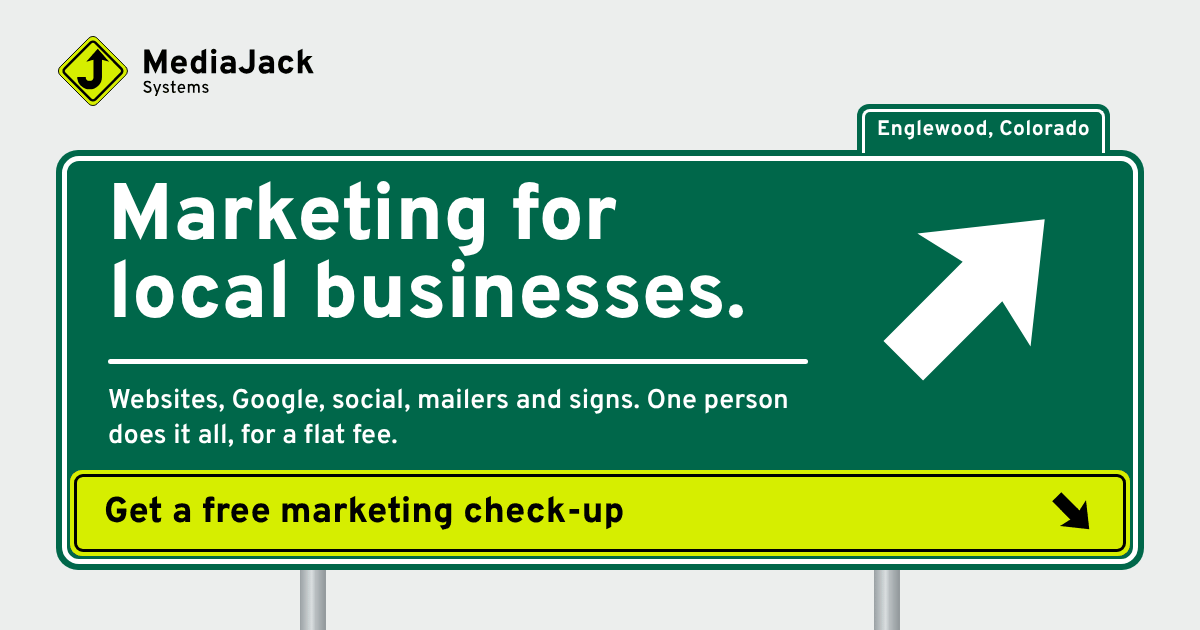
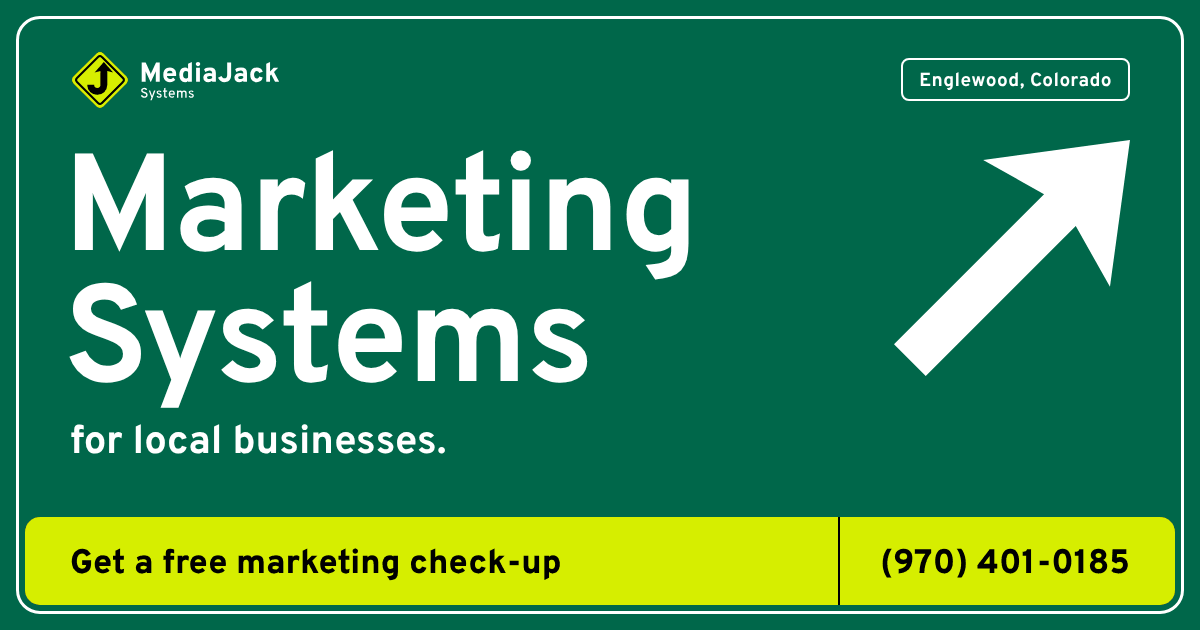
Share image in the new look, heading breaks, the accessibility note
- The share image is the unboxed sign: Marketing, Systems, for local businesses
- Headings in two-column layouts size to their column, and paragraphs no longer
  leave one word hanging
- The accessibility page says how the sign maker works for screen readers

Claude-Session: https://claude.ai/code/session_01Lr69gRQQDSWsC9TACTSFDD

diff --git a/public/services/index.html b/public/services/index.html
@@ -22,8 +22,8 @@
 <link rel="icon" href="/favicon.ico" sizes="32x32">
 <link rel="apple-touch-icon" href="/apple-touch-icon.png">
 <link rel="preload" href="/assets/fonts/overpass-var.woff2" as="font" type="font/woff2" crossorigin>
-<link rel="stylesheet" href="/assets/site.css?v=25d5dbbc">
-<script src="/assets/site.js?v=25d5dbbc" defer></script>
+<link rel="stylesheet" href="/assets/site.css?v=fe84f39a">
+<script src="/assets/site.js?v=fe84f39a" defer></script>
 <script type="application/ld+json">{"@context":"https://schema.org","@graph":[{"@type":"ProfessionalService","@id":"https://mediajacksystems.com/#business","name":"MediaJack Systems","legalName":"MediaJack Systems LLC","url":"https://mediajacksystems.com/","logo":"https://mediajacksystems.com/apple-touch-icon.png","image":"https://mediajacksystems.com/assets/img/og-image.png","description":"Marketing and custom systems for local businesses: websites, Google and AI search, branding, social media, email, ads, print and direct mail, fractional CMO work, and custom-built software. Flat fees, quoted in writing before work starts.","telephone":"+1-970-401-0185","email":"jack@mediajacksystems.com","priceRange":"$295 to $1,500","address":{"@type":"PostalAddress","addressLocality":"Englewood","addressRegion":"CO","postalCode":"80111","addressCountry":"US"},"areaServed":[{"@type":"City","name":"Englewood, Colorado"},{"@type":"City","name":"Denver, Colorado"},{"@type":"Country","name":"United States"}],"founder":{"@id":"https://mediajacksystems.com/about/#jack"},"knowsAbout":["Local SEO","Google Business Profile","AI search visibility","Website design","Branding","Social media marketing","Email marketing","Google Ads","Facebook and Instagram ads","Direct mail","Every Door Direct Mail","Print marketing","Fractional CMO","Custom software"],"sameAs":["https://www.google.com/maps?cid=17107192777668945042"],"hasMap":"https://www.google.com/maps?cid=17107192777668945042","hasOfferCatalog":{"@type":"OfferCatalog","name":"Marketing services and custom systems","itemListElement":[{"@type":"Offer","itemOffered":{"@type":"Service","name":"Google and local search","description":"Google Business Profile, local search, AI search visibility, Google and Facebook/Instagram ads, and review routines.","url":"https://mediajacksystems.com/services/#get-found","provider":{"@id":"https://mediajacksystems.com/#business"}}},{"@type":"Offer","itemOffered":{"@type":"Service","name":"Websites and branding","description":"Logos and brand guides, websites and website fixes, landing pages, and photo and video.","url":"https://mediajacksystems.com/services/#look-the-part","provider":{"@id":"https://mediajacksystems.com/#business"}}},{"@type":"Offer","itemOffered":{"@type":"Service","name":"Social media and email","description":"Social media management, email newsletters and campaigns, follow-ups and content.","url":"https://mediajacksystems.com/services/#stay-in-touch","provider":{"@id":"https://mediajacksystems.com/#business"}}},{"@type":"Offer","itemOffered":{"@type":"Service","name":"Print and direct mail","description":"Business cards, postcards and direct mail including Every Door Direct Mail, flyers, brochures, signs, banners, vehicle graphics and trade show displays.","url":"https://mediajacksystems.com/services/#print","provider":{"@id":"https://mediajacksystems.com/#business"}}},{"@type":"Offer","itemOffered":{"@type":"Service","name":"Part-time marketing lead","description":"Fractional CMO: marketing plan, budget and calendar, vendor management, sales materials and plain-English reporting.","url":"https://mediajacksystems.com/services/#run-it","provider":{"@id":"https://mediajacksystems.com/#business"}}},{"@type":"Offer","itemOffered":{"@type":"Service","name":"Custom systems","description":"Software built around how a business works: tools on a website such as calculators, checkers and maps, lead capture and follow-up systems, and company platforms built from the ground up. Quoted for the job.","url":"https://mediajacksystems.com/services/#custom-systems","provider":{"@id":"https://mediajacksystems.com/#business"}}},{"@type":"Offer","itemOffered":{"@type":"Service","name":"Website for a small business, with a gallery of your work","provider":{"@id":"https://mediajacksystems.com/#business"}},"priceCurrency":"USD","price":500},{"@type":"Offer","itemOffered":{"@type":"Service","name":"Hosting and small updates for a small business website","provider":{"@id":"https://mediajacksystems.com/#business"}},"priceCurrency":"USD","price":50,"priceSpecification":{"@type":"UnitPriceSpecification","price":50,"priceCurrency":"USD","unitCode":"MON"}},{"@type":"Offer","itemOffered":{"@type":"Service","name":"Website for a bigger operation","provider":{"@id":"https://mediajacksystems.com/#business"}},"priceCurrency":"USD","price":1500},{"@type":"Offer","itemOffered":{"@type":"Service","name":"Hosting and updates for a bigger operation","provider":{"@id":"https://mediajacksystems.com/#business"}},"priceCurrency":"USD","price":150,"priceSpecification":{"@type":"UnitPriceSpecification","price":150,"priceCurrency":"USD","unitCode":"MON"}},{"@type":"Offer","itemOffered":{"@type":"Service","name":"Fixing the problems on a website you already have","provider":{"@id":"https://mediajacksystems.com/#business"}},"priceCurrency":"USD","price":295},{"@type":"Offer","itemOffered":{"@type":"Service","name":"One social platform set up with 4 posts, small business","provider":{"@id":"https://mediajacksystems.com/#business"}},"priceCurrency":"USD","price":150},{"@type":"Offer","itemOffered":{"@type":"Service","name":"12 social posts a month, small business","provider":{"@id":"https://mediajacksystems.com/#business"}},"priceCurrency":"USD","price":100,"priceSpecification":{"@type":"UnitPriceSpecification","price":100,"priceCurrency":"USD","unitCode":"MON"}}]}},{"@type":"Person","@id":"https://mediajacksystems.com/about/#jack","name":"Jack Johnson","jobTitle":"Owner","worksFor":{"@id":"https://mediajacksystems.com/#business"},"url":"https://mediajacksystems.com/about/","email":"jack@mediajacksystems.com","telephone":"+1-970-401-0185","sameAs":["https://www.linkedin.com/in/jack-johnson-359494400"],"image":"https://mediajacksystems.com/assets/img/jack-johnson-880.jpg"},{"@type":"BreadcrumbList","itemListElement":[{"@type":"ListItem","position":1,"name":"Home","item":"https://mediajacksystems.com/"},{"@type":"ListItem","position":2,"name":"Services","item":"https://mediajacksystems.com/services/"}]}]}</script>
 </head>
 <body>

diff --git a/public/websites/index.html b/public/websites/index.html
@@ -22,8 +22,8 @@
 <link rel="icon" href="/favicon.ico" sizes="32x32">
 <link rel="apple-touch-icon" href="/apple-touch-icon.png">
 <link rel="preload" href="/assets/fonts/overpass-var.woff2" as="font" type="font/woff2" crossorigin>
-<link rel="stylesheet" href="/assets/site.css?v=25d5dbbc">
-<script src="/assets/site.js?v=25d5dbbc" defer></script>
+<link rel="stylesheet" href="/assets/site.css?v=fe84f39a">
+<script src="/assets/site.js?v=fe84f39a" defer></script>
 <script type="application/ld+json">{"@context":"https://schema.org","@graph":[{"@type":"Service","@id":"https://mediajacksystems.com/websites/#service","name":"Websites for local businesses","serviceType":"Website design","url":"https://mediajacksystems.com/websites/","description":"A website for a contractor, salon, restaurant or shop: your services, a gallery of your real work and a call button on every page. $500 flat, $50 a month.","provider":{"@id":"https://mediajacksystems.com/#business"},"areaServed":[{"@type":"City","name":"Englewood, Colorado"},{"@type":"City","name":"Denver, Colorado"},{"@type":"Country","name":"United States"}],"offers":[{"@type":"Offer","itemOffered":{"@type":"Service","name":"Website for a small business, with a gallery of your work","provider":{"@id":"https://mediajacksystems.com/#business"}},"priceCurrency":"USD","price":500},{"@type":"Offer","itemOffered":{"@type":"Service","name":"Hosting and small updates for a small business website","provider":{"@id":"https://mediajacksystems.com/#business"}},"priceCurrency":"USD","price":50,"priceSpecification":{"@type":"UnitPriceSpecification","price":50,"priceCurrency":"USD","unitCode":"MON"}},{"@type":"Offer","itemOffered":{"@type":"Service","name":"Website for a bigger operation","provider":{"@id":"https://mediajacksystems.com/#business"}},"priceCurrency":"USD","price":1500},{"@type":"Offer","itemOffered":{"@type":"Service","name":"Hosting and updates for a bigger operation","provider":{"@id":"https://mediajacksystems.com/#business"}},"priceCurrency":"USD","price":150,"priceSpecification":{"@type":"UnitPriceSpecification","price":150,"priceCurrency":"USD","unitCode":"MON"}},{"@type":"Offer","itemOffered":{"@type":"Service","name":"Fixing the problems on a website you already have","provider":{"@id":"https://mediajacksystems.com/#business"}},"priceCurrency":"USD","price":295}]},{"@type":"ProfessionalService","@id":"https://mediajacksystems.com/#business","name":"MediaJack Systems","legalName":"MediaJack Systems LLC","url":"https://mediajacksystems.com/","logo":"https://mediajacksystems.com/apple-touch-icon.png","image":"https://mediajacksystems.com/assets/img/og-image.png","description":"Marketing and custom systems for local businesses: websites, Google and AI search, branding, social media, email, ads, print and direct mail, fractional CMO work, and custom-built software. Flat fees, quoted in writing before work starts.","telephone":"+1-970-401-0185","email":"jack@mediajacksystems.com","priceRange":"$295 to $1,500","address":{"@type":"PostalAddress","addressLocality":"Englewood","addressRegion":"CO","postalCode":"80111","addressCountry":"US"},"areaServed":[{"@type":"City","name":"Englewood, Colorado"},{"@type":"City","name":"Denver, Colorado"},{"@type":"Country","name":"United States"}],"founder":{"@id":"https://mediajacksystems.com/about/#jack"},"knowsAbout":["Local SEO","Google Business Profile","AI search visibility","Website design","Branding","Social media marketing","Email marketing","Google Ads","Facebook and Instagram ads","Direct mail","Every Door Direct Mail","Print marketing","Fractional CMO","Custom software"],"sameAs":["https://www.google.com/maps?cid=17107192777668945042"],"hasMap":"https://www.google.com/maps?cid=17107192777668945042"},{"@type":"Person","@id":"https://mediajacksystems.com/about/#jack","name":"Jack Johnson","jobTitle":"Owner","worksFor":{"@id":"https://mediajacksystems.com/#business"},"url":"https://mediajacksystems.com/about/","email":"jack@mediajacksystems.com","telephone":"+1-970-401-0185","sameAs":["https://www.linkedin.com/in/jack-johnson-359494400"],"image":"https://mediajacksystems.com/assets/img/jack-johnson-880.jpg"},{"@type":"BreadcrumbList","itemListElement":[{"@type":"ListItem","position":1,"name":"Home","item":"https://mediajacksystems.com/"},{"@type":"ListItem","position":2,"name":"Websites","item":"https://mediajacksystems.com/websites/"}]}]}</script>
 </head>
 <body>

diff --git a/public/index.html b/public/index.html
@@ -22,8 +22,8 @@
 <link rel="icon" href="/favicon.ico" sizes="32x32">
 <link rel="apple-touch-icon" href="/apple-touch-icon.png">
 <link rel="preload" href="/assets/fonts/overpass-var.woff2" as="font" type="font/woff2" crossorigin>
-<link rel="stylesheet" href="/assets/site.css?v=25d5dbbc">
-<script src="/assets/site.js?v=25d5dbbc" defer></script>
+<link rel="stylesheet" href="/assets/site.css?v=fe84f39a">
+<script src="/assets/site.js?v=fe84f39a" defer></script>
 <script type="application/ld+json">{"@context":"https://schema.org","@graph":[{"@type":"WebSite","@id":"https://mediajacksystems.com/#site","name":"MediaJack Systems","url":"https://mediajacksystems.com/","publisher":{"@id":"https://mediajacksystems.com/#business"}},{"@type":"ProfessionalService","@id":"https://mediajacksystems.com/#business","name":"MediaJack Systems","legalName":"MediaJack Systems LLC","url":"https://mediajacksystems.com/","logo":"https://mediajacksystems.com/apple-touch-icon.png","image":"https://mediajacksystems.com/assets/img/og-image.png","description":"Marketing and custom systems for local businesses: websites, Google and AI search, branding, social media, email, ads, print and direct mail, fractional CMO work, and custom-built software. Flat fees, quoted in writing before work starts.","telephone":"+1-970-401-0185","email":"jack@mediajacksystems.com","priceRange":"$295 to $1,500","address":{"@type":"PostalAddress","addressLocality":"Englewood","addressRegion":"CO","postalCode":"80111","addressCountry":"US"},"areaServed":[{"@type":"City","name":"Englewood, Colorado"},{"@type":"City","name":"Denver, Colorado"},{"@type":"Country","name":"United States"}],"founder":{"@id":"https://mediajacksystems.com/about/#jack"},"knowsAbout":["Local SEO","Google Business Profile","AI search visibility","Website design","Branding","Social media marketing","Email marketing","Google Ads","Facebook and Instagram ads","Direct mail","Every Door Direct Mail","Print marketing","Fractional CMO","Custom software"],"sameAs":["https://www.google.com/maps?cid=17107192777668945042"],"hasMap":"https://www.google.com/maps?cid=17107192777668945042","hasOfferCatalog":{"@type":"OfferCatalog","name":"Starting prices","itemListElement":[{"@type":"Offer","itemOffered":{"@type":"Service","name":"Website for a small business, with a gallery of your work","provider":{"@id":"https://mediajacksystems.com/#business"}},"priceCurrency":"USD","price":500},{"@type":"Offer","itemOffered":{"@type":"Service","name":"Hosting and small updates for a small business website","provider":{"@id":"https://mediajacksystems.com/#business"}},"priceCurrency":"USD","price":50,"priceSpecification":{"@type":"UnitPriceSpecification","price":50,"priceCurrency":"USD","unitCode":"MON"}},{"@type":"Offer","itemOffered":{"@type":"Service","name":"Website for a bigger operation","provider":{"@id":"https://mediajacksystems.com/#business"}},"priceCurrency":"USD","price":1500},{"@type":"Offer","itemOffered":{"@type":"Service","name":"Hosting and updates for a bigger operation","provider":{"@id":"https://mediajacksystems.com/#business"}},"priceCurrency":"USD","price":150,"priceSpecification":{"@type":"UnitPriceSpecification","price":150,"priceCurrency":"USD","unitCode":"MON"}},{"@type":"Offer","itemOffered":{"@type":"Service","name":"Fixing the problems on a website you already have","provider":{"@id":"https://mediajacksystems.com/#business"}},"priceCurrency":"USD","price":295},{"@type":"Offer","itemOffered":{"@type":"Service","name":"One social platform set up with 4 posts, small business","provider":{"@id":"https://mediajacksystems.com/#business"}},"priceCurrency":"USD","price":150},{"@type":"Offer","itemOffered":{"@type":"Service","name":"12 social posts a month, small business","provider":{"@id":"https://mediajacksystems.com/#business"}},"priceCurrency":"USD","price":100,"priceSpecification":{"@type":"UnitPriceSpecification","price":100,"priceCurrency":"USD","unitCode":"MON"}}]}},{"@type":"Person","@id":"https://mediajacksystems.com/about/#jack","name":"Jack Johnson","jobTitle":"Owner","worksFor":{"@id":"https://mediajacksystems.com/#business"},"url":"https://mediajacksystems.com/about/","email":"jack@mediajacksystems.com","telephone":"+1-970-401-0185","sameAs":["https://www.linkedin.com/in/jack-johnson-359494400"],"image":"https://mediajacksystems.com/assets/img/jack-johnson-880.jpg"}]}</script>
 </head>
 <body>

diff --git a/public/check-up/index.html b/public/check-up/index.html
@@ -22,8 +22,8 @@
 <link rel="icon" href="/favicon.ico" sizes="32x32">
 <link rel="apple-touch-icon" href="/apple-touch-icon.png">
 <link rel="preload" href="/assets/fonts/overpass-var.woff2" as="font" type="font/woff2" crossorigin>
-<link rel="stylesheet" href="/assets/site.css?v=25d5dbbc">
-<script src="/assets/site.js?v=25d5dbbc" defer></script>
+<link rel="stylesheet" href="/assets/site.css?v=fe84f39a">
+<script src="/assets/site.js?v=fe84f39a" defer></script>
 <script type="application/ld+json">{"@context":"https://schema.org","@graph":[{"@type":"WebPage","url":"https://mediajacksystems.com/check-up/","name":"Free marketing check-up | MediaJack Systems","description":"Send your website or business name. Jack Johnson looks at what your customers see and emails back a short list of what to fix first. Free, no obligation.","about":{"@id":"https://mediajacksystems.com/#business"}},{"@type":"ProfessionalService","@id":"https://mediajacksystems.com/#business","name":"MediaJack Systems","legalName":"MediaJack Systems LLC","url":"https://mediajacksystems.com/","logo":"https://mediajacksystems.com/apple-touch-icon.png","image":"https://mediajacksystems.com/assets/img/og-image.png","description":"Marketing and custom systems for local businesses: websites, Google and AI search, branding, social media, email, ads, print and direct mail, fractional CMO work, and custom-built software. Flat fees, quoted in writing before work starts.","telephone":"+1-970-401-0185","email":"jack@mediajacksystems.com","priceRange":"$295 to $1,500","address":{"@type":"PostalAddress","addressLocality":"Englewood","addressRegion":"CO","postalCode":"80111","addressCountry":"US"},"areaServed":[{"@type":"City","name":"Englewood, Colorado"},{"@type":"City","name":"Denver, Colorado"},{"@type":"Country","name":"United States"}],"founder":{"@id":"https://mediajacksystems.com/about/#jack"},"knowsAbout":["Local SEO","Google Business Profile","AI search visibility","Website design","Branding","Social media marketing","Email marketing","Google Ads","Facebook and Instagram ads","Direct mail","Every Door Direct Mail","Print marketing","Fractional CMO","Custom software"],"sameAs":["https://www.google.com/maps?cid=17107192777668945042"],"hasMap":"https://www.google.com/maps?cid=17107192777668945042"},{"@type":"Person","@id":"https://mediajacksystems.com/about/#jack","name":"Jack Johnson","jobTitle":"Owner","worksFor":{"@id":"https://mediajacksystems.com/#business"},"url":"https://mediajacksystems.com/about/","email":"jack@mediajacksystems.com","telephone":"+1-970-401-0185","sameAs":["https://www.linkedin.com/in/jack-johnson-359494400"],"image":"https://mediajacksystems.com/assets/img/jack-johnson-880.jpg"},{"@type":"BreadcrumbList","itemListElement":[{"@type":"ListItem","position":1,"name":"Home","item":"https://mediajacksystems.com/"},{"@type":"ListItem","position":2,"name":"Free check-up","item":"https://mediajacksystems.com/check-up/"}]}]}</script>
 </head>
 <body>

diff --git a/public/contact/index.html b/public/contact/index.html
@@ -22,8 +22,8 @@
 <link rel="icon" href="/favicon.ico" sizes="32x32">
 <link rel="apple-touch-icon" href="/apple-touch-icon.png">
 <link rel="preload" href="/assets/fonts/overpass-var.woff2" as="font" type="font/woff2" crossorigin>
-<link rel="stylesheet" href="/assets/site.css?v=25d5dbbc">
-<script src="/assets/site.js?v=25d5dbbc" defer></script>
+<link rel="stylesheet" href="/assets/site.css?v=fe84f39a">
+<script src="/assets/site.js?v=fe84f39a" defer></script>
 <script type="application/ld+json">{"@context":"https://schema.org","@graph":[{"@type":"ContactPage","url":"https://mediajacksystems.com/contact/","about":{"@id":"https://mediajacksystems.com/#business"}},{"@type":"ProfessionalService","@id":"https://mediajacksystems.com/#business","name":"MediaJack Systems","legalName":"MediaJack Systems LLC","url":"https://mediajacksystems.com/","logo":"https://mediajacksystems.com/apple-touch-icon.png","image":"https://mediajacksystems.com/assets/img/og-image.png","description":"Marketing and custom systems for local businesses: websites, Google and AI search, branding, social media, email, ads, print and direct mail, fractional CMO work, and custom-built software. Flat fees, quoted in writing before work starts.","telephone":"+1-970-401-0185","email":"jack@mediajacksystems.com","priceRange":"$295 to $1,500","address":{"@type":"PostalAddress","addressLocality":"Englewood","addressRegion":"CO","postalCode":"80111","addressCountry":"US"},"areaServed":[{"@type":"City","name":"Englewood, Colorado"},{"@type":"City","name":"Denver, Colorado"},{"@type":"Country","name":"United States"}],"founder":{"@id":"https://mediajacksystems.com/about/#jack"},"knowsAbout":["Local SEO","Google Business Profile","AI search visibility","Website design","Branding","Social media marketing","Email marketing","Google Ads","Facebook and Instagram ads","Direct mail","Every Door Direct Mail","Print marketing","Fractional CMO","Custom software"],"sameAs":["https://www.google.com/maps?cid=17107192777668945042"],"hasMap":"https://www.google.com/maps?cid=17107192777668945042"},{"@type":"Person","@id":"https://mediajacksystems.com/about/#jack","name":"Jack Johnson","jobTitle":"Owner","worksFor":{"@id":"https://mediajacksystems.com/#business"},"url":"https://mediajacksystems.com/about/","email":"jack@mediajacksystems.com","telephone":"+1-970-401-0185","sameAs":["https://www.linkedin.com/in/jack-johnson-359494400"],"image":"https://mediajacksystems.com/assets/img/jack-johnson-880.jpg"},{"@type":"BreadcrumbList","itemListElement":[{"@type":"ListItem","position":1,"name":"Home","item":"https://mediajacksystems.com/"},{"@type":"ListItem","position":2,"name":"Contact","item":"https://mediajacksystems.com/contact/"}]}]}</script>
 </head>
 <body>

diff --git a/public/assets/site.css b/public/assets/site.css
@@ -58,6 +58,7 @@ body {
 img, svg { display: block; max-width: 100%; }
 h1, h2, h3, p, ul, ol, dl, dd, figure, blockquote { margin: 0; }
 p + p { margin-top: 1em; }
+p, li, dd { text-wrap: pretty; }                                 /* no single word left hanging on a last line */
 strong, b { font-weight: 800; }
 
 a { color: inherit; text-decoration-thickness: 2px; text-underline-offset: .18em; }
@@ -316,6 +317,8 @@ a.brand:hover { background: none; }
 @media (min-width: 1100px) {
   .intro { grid-template-columns: repeat(2, minmax(0, 1fr)); gap: 2.5rem clamp(2.5rem, 6vw, 5.5rem); align-items: start; }
   .intro__where { grid-column: 2; grid-row: 1 / span 2; margin-top: .45rem; }
+  .distance { padding: 28px 38px 26px; }
+  .distance li { padding: 27px 0 22px; }
 }
 
 /* ---------------------------------------------------------------- sections */
@@ -339,6 +342,7 @@ h2 + .lede { margin-top: 1rem; }
 @media (min-width: 900px) {
   .split { grid-template-columns: minmax(0, .82fr) minmax(0, 1.18fr); align-items: start; }
   .split--even { grid-template-columns: repeat(2, minmax(0, 1fr)); }
+  .split h2 { font-size: clamp(2.1rem, 5.2vw, 4rem); }
 }
 
 /* ---------------------------------------------------------------- price plates: white regulatory signs */
@@ -492,6 +496,7 @@ a.blade:active { transform: translateY(1px); }
 @media (min-width: 900px) {
   .band__maker { grid-template-columns: minmax(0, .94fr) minmax(0, 1.06fr); grid-template-areas: "say stage" "maker stage" "actions stage" "looks looks"; column-gap: clamp(2.5rem, 5vw, 4.5rem); }
   .band__say { grid-area: say; }
+  .band h2 { font-size: min(4.6rem, 4.55vw); }
   .maker { grid-area: maker; }
   .maker__stage { grid-area: stage; align-self: center; }
   .band__maker > .actions { grid-area: actions; }

diff --git a/public/about/index.html b/public/about/index.html
@@ -22,8 +22,8 @@
 <link rel="icon" href="/favicon.ico" sizes="32x32">
 <link rel="apple-touch-icon" href="/apple-touch-icon.png">
 <link rel="preload" href="/assets/fonts/overpass-var.woff2" as="font" type="font/woff2" crossorigin>
-<link rel="stylesheet" href="/assets/site.css?v=25d5dbbc">
-<script src="/assets/site.js?v=25d5dbbc" defer></script>
+<link rel="stylesheet" href="/assets/site.css?v=fe84f39a">
+<script src="/assets/site.js?v=fe84f39a" defer></script>
 <script type="application/ld+json">{"@context":"https://schema.org","@graph":[{"@type":"Person","@id":"https://mediajacksystems.com/about/#jack","name":"Jack Johnson","jobTitle":"Owner","worksFor":{"@id":"https://mediajacksystems.com/#business"},"url":"https://mediajacksystems.com/about/","email":"jack@mediajacksystems.com","telephone":"+1-970-401-0185","sameAs":["https://www.linkedin.com/in/jack-johnson-359494400"],"image":"https://mediajacksystems.com/assets/img/jack-johnson-880.jpg","description":"Owner of MediaJack Systems, a marketing and custom systems firm in Englewood, Colorado; fractional CMO."},{"@type":"AboutPage","url":"https://mediajacksystems.com/about/","about":{"@id":"https://mediajacksystems.com/about/#jack"}},{"@type":"BreadcrumbList","itemListElement":[{"@type":"ListItem","position":1,"name":"Home","item":"https://mediajacksystems.com/"},{"@type":"ListItem","position":2,"name":"About","item":"https://mediajacksystems.com/about/"}]}]}</script>
 </head>
 <body>

diff --git a/public/accessibility/index.html b/public/accessibility/index.html
@@ -22,8 +22,8 @@
 <link rel="icon" href="/favicon.ico" sizes="32x32">
 <link rel="apple-touch-icon" href="/apple-touch-icon.png">
 <link rel="preload" href="/assets/fonts/overpass-var.woff2" as="font" type="font/woff2" crossorigin>
-<link rel="stylesheet" href="/assets/site.css?v=25d5dbbc">
-<script src="/assets/site.js?v=25d5dbbc" defer></script>
+<link rel="stylesheet" href="/assets/site.css?v=fe84f39a">
+<script src="/assets/site.js?v=fe84f39a" defer></script>
 
 </head>
 <body>
@@ -72,6 +72,7 @@
       <li>Headings, landmarks and labels that screen readers can follow.</li>
       <li>Text you can enlarge without losing content, and layouts that work from small phones to wide screens.</li>
       <li>The form has a visible label on every field and explains any mistake in words.</li>
+      <li>On the home page, the sign that shows your business name is for the eye only: screen readers skip it and read the two labelled fields instead, and nothing you type there is sent anywhere.</li>
       <li>The light that passes over the signs is the only thing that moves, and it is turned off if your device asks for reduced motion.</li>
     </ul>
     <h2>How it is checked</h2>

diff --git a/src/pages/accessibility.html b/src/pages/accessibility.html
@@ -20,6 +20,7 @@
       <li>Headings, landmarks and labels that screen readers can follow.</li>
       <li>Text you can enlarge without losing content, and layouts that work from small phones to wide screens.</li>
       <li>The form has a visible label on every field and explains any mistake in words.</li>
+      <li>On the home page, the sign that shows your business name is for the eye only: screen readers skip it and read the two labelled fields instead, and nothing you type there is sent anywhere.</li>
       <li>The light that passes over the signs is the only thing that moves, and it is turned off if your device asks for reduced motion.</li>
     </ul>
     <h2>How it is checked</h2>

diff --git a/public/404.html b/public/404.html
@@ -21,8 +21,8 @@
 <link rel="icon" href="/favicon.ico" sizes="32x32">
 <link rel="apple-touch-icon" href="/apple-touch-icon.png">
 <link rel="preload" href="/assets/fonts/overpass-var.woff2" as="font" type="font/woff2" crossorigin>
-<link rel="stylesheet" href="/assets/site.css?v=25d5dbbc">
-<script src="/assets/site.js?v=25d5dbbc" defer></script>
+<link rel="stylesheet" href="/assets/site.css?v=fe84f39a">
+<script src="/assets/site.js?v=fe84f39a" defer></script>
 
 </head>
 <body>

diff --git a/public/privacy/index.html b/public/privacy/index.html
@@ -22,8 +22,8 @@
 <link rel="icon" href="/favicon.ico" sizes="32x32">
 <link rel="apple-touch-icon" href="/apple-touch-icon.png">
 <link rel="preload" href="/assets/fonts/overpass-var.woff2" as="font" type="font/woff2" crossorigin>
-<link rel="stylesheet" href="/assets/site.css?v=25d5dbbc">
-<script src="/assets/site.js?v=25d5dbbc" defer></script>
+<link rel="stylesheet" href="/assets/site.css?v=fe84f39a">
+<script src="/assets/site.js?v=fe84f39a" defer></script>
 
 </head>
 <body>
